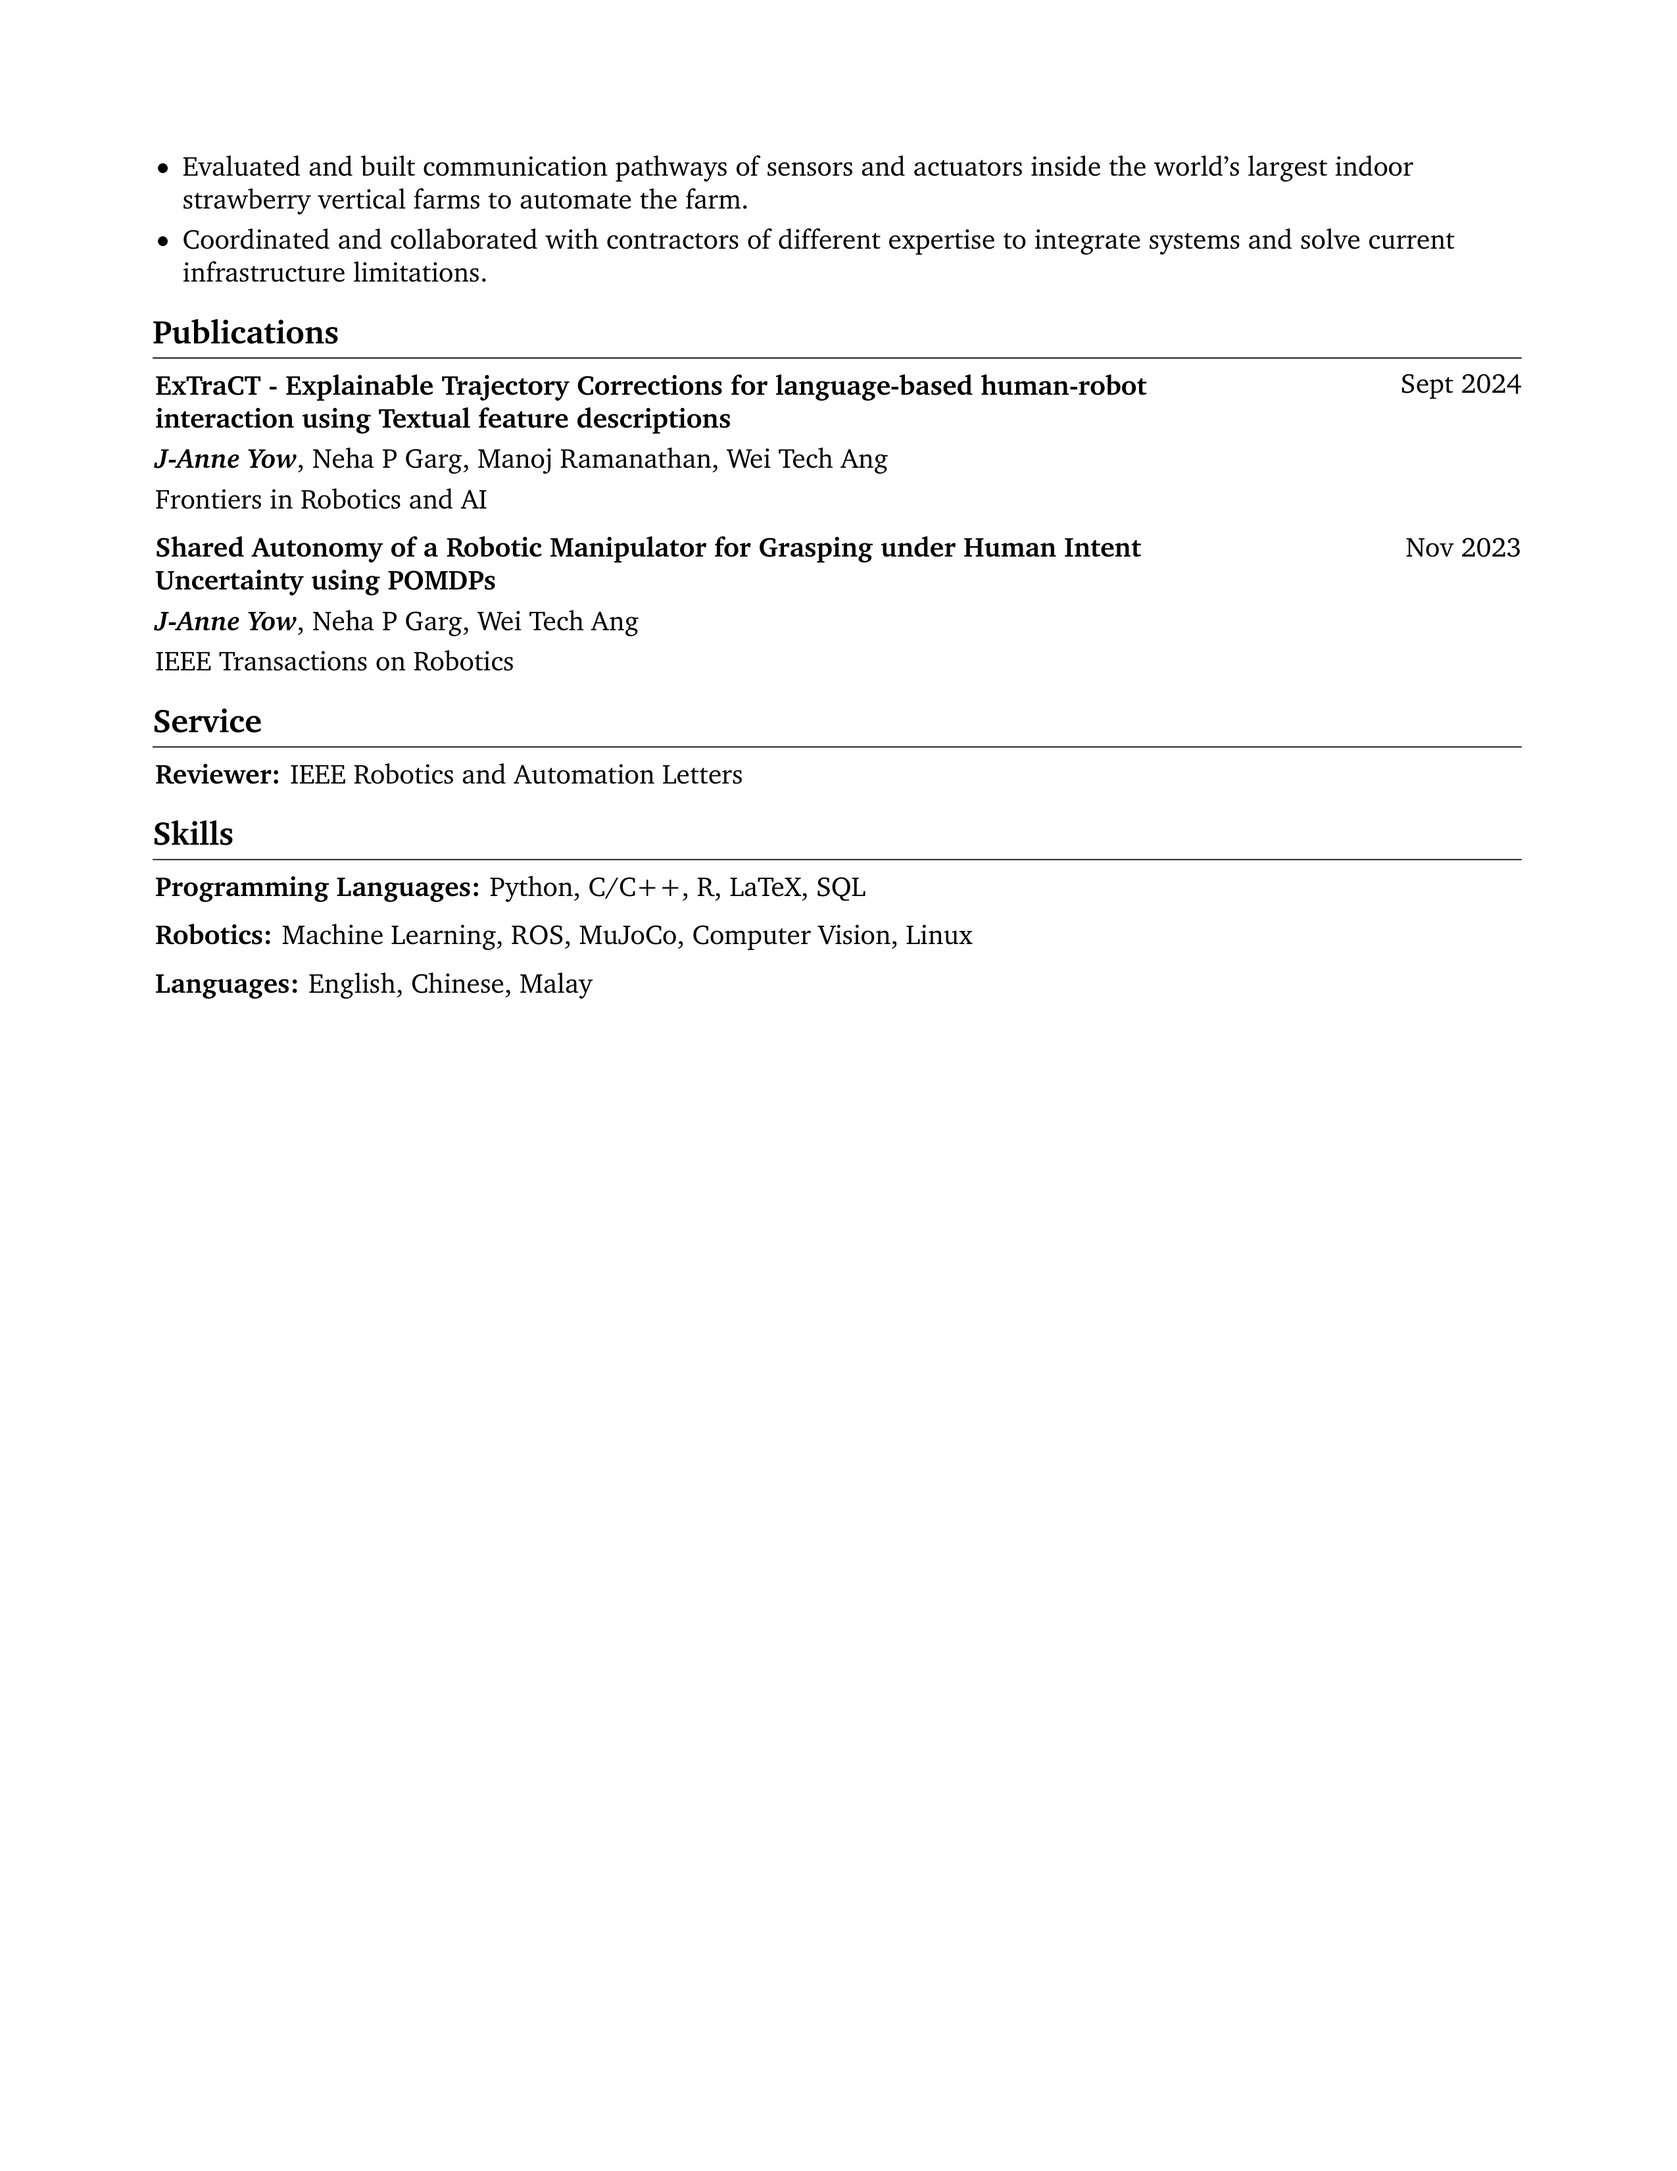
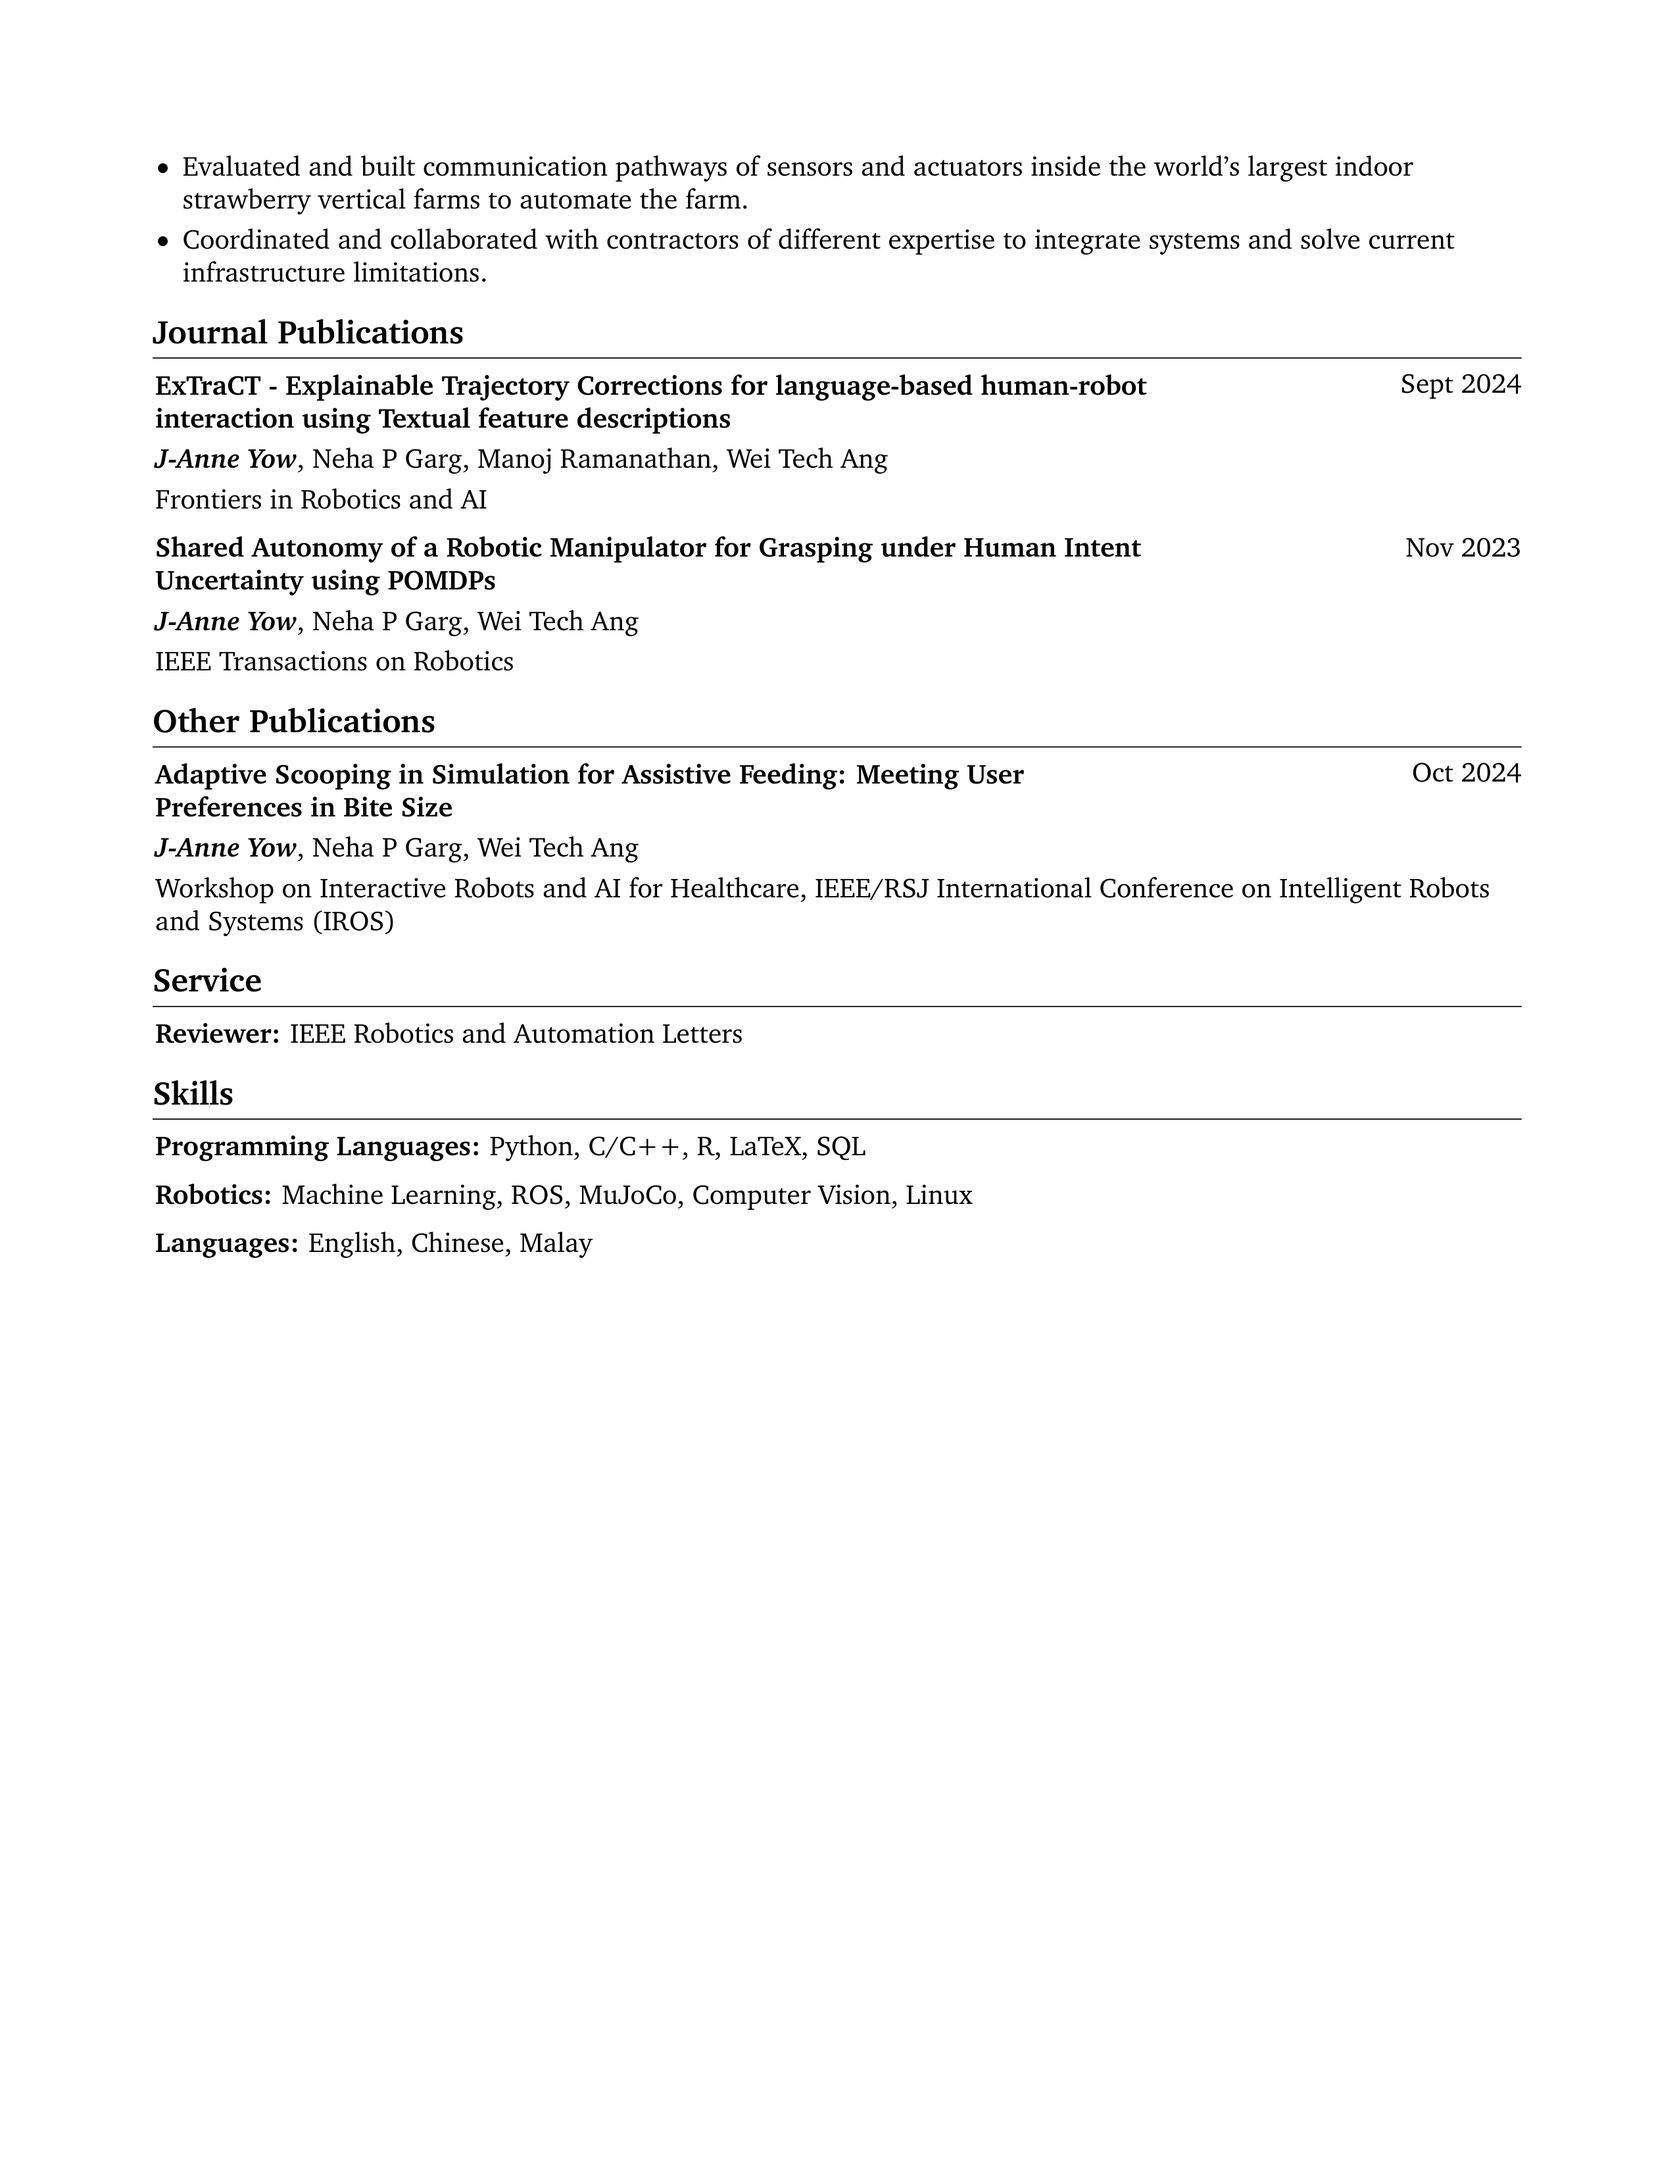
updated email and vs for iraih

diff --git a/assets/cv/rendercv_output/J-Anne_Yow_CV.html b/assets/cv/rendercv_output/J-Anne_Yow_CV.html
@@ -97,7 +97,7 @@
         <li>Evaluated and built communication pathways of sensors and actuators inside the world's largest indoor strawberry vertical farms to automate the farm.</li>
         <li>Coordinated and collaborated with contractors of different expertise to integrate systems and solve current infrastructure limitations.</li>
         </ul>
-        <h1>Publications</h1>
+        <h1>Journal Publications</h1>
         <h2><a href="https://www.frontiersin.org/journals/robotics-and-ai/articles/10.3389/frobt.2024.1345693/full">ExTraCT - Explainable Trajectory Corrections for language-based human-robot interaction using Textual feature descriptions</a></h2>
         <ul>
         <li>Sept 2024</li>
@@ -109,6 +109,13 @@
         <li>Nov 2023</li>
         <li><strong><em>J-Anne Yow</em></strong>, Neha P Garg, Wei Tech Ang</li>
         <li>IEEE Transactions on Robotics</li>
+        </ul>
+        <h1>Other Publications</h1>
+        <h2>Adaptive Scooping in Simulation for Assistive Feeding: Meeting User Preferences in Bite Size</h2>
+        <ul>
+        <li>Oct 2024</li>
+        <li><strong><em>J-Anne Yow</em></strong>, Neha P Garg, Wei Tech Ang</li>
+        <li>Workshop on Interactive Robots and AI for Healthcare, IEEE/RSJ International Conference on Intelligent Robots and Systems (IROS)</li>
         </ul>
         <h1>Service</h1>
         <ul>

diff --git a/assets/cv/rendercv_output/J-Anne_Yow_CV.tex b/assets/cv/rendercv_output/J-Anne_Yow_CV.tex
@@ -140,7 +140,7 @@
         \LenToUnit{\paperwidth-2 cm-0 cm+0.05cm},
         \LenToUnit{\paperheight-1.0 cm}
     ){\vtop{{\null}\makebox[0pt][c]{
-        \small\color{gray}\textit{Last updated in September 2024}\hspace{\widthof{Last updated in September 2024}}
+        \small\color{gray}\textit{Last updated in October 2024}\hspace{\widthof{Last updated in October 2024}}
     }}}%
   }%
 }%
@@ -331,7 +331,7 @@
 
 
     
-    \section{Publications}
+    \section{Journal Publications}
 
 
 
@@ -370,6 +370,30 @@
                 \vspace{0.10 cm}
                 
         IEEE Transactions on Robotics\end{onecolentry}
+        \end{samepage}
+
+
+    
+    \section{Other Publications}
+
+
+
+        
+        \begin{samepage}
+            \begin{twocolentry}{
+                Oct 2024
+            }
+                \textbf{Adaptive Scooping in Simulation for Assistive Feeding: Meeting User Preferences in Bite Size}
+            \end{twocolentry}
+
+            \vspace{0.10 cm}
+            
+            \begin{onecolentry}
+                \mbox{\textbf{\textit{J-Anne Yow}}}, \mbox{Neha P Garg}, \mbox{Wei Tech Ang}
+
+                \vspace{0.10 cm}
+                
+        Workshop on Interactive Robots and AI for Healthcare, IEEE/RSJ International Conference on Intelligent Robots and Systems (IROS)\end{onecolentry}
         \end{samepage}
 
 

diff --git a/assets/cv/rendercv_output/J-Anne_Yow_CV.md b/assets/cv/rendercv_output/J-Anne_Yow_CV.md
@@ -68,7 +68,7 @@
 - Evaluated and built communication pathways of sensors and actuators inside the world's largest indoor strawberry vertical farms to automate the farm.
 - Coordinated and collaborated with contractors of different expertise to integrate systems and solve current infrastructure limitations.
 
-# Publications
+# Journal Publications
 
 ## [ExTraCT - Explainable Trajectory Corrections for language-based human-robot interaction using Textual feature descriptions](https://www.frontiersin.org/journals/robotics-and-ai/articles/10.3389/frobt.2024.1345693/full) 
 - Sept 2024
@@ -79,6 +79,13 @@
 - Nov 2023
 - ***J-Anne Yow***, Neha P Garg, Wei Tech Ang
 - IEEE Transactions on Robotics
+
+# Other Publications
+
+## Adaptive Scooping in Simulation for Assistive Feeding: Meeting User Preferences in Bite Size 
+- Oct 2024
+- ***J-Anne Yow***, Neha P Garg, Wei Tech Ang
+- Workshop on Interactive Robots and AI for Healthcare, IEEE/RSJ International Conference on Intelligent Robots and Systems (IROS)
 
 # Service
 
